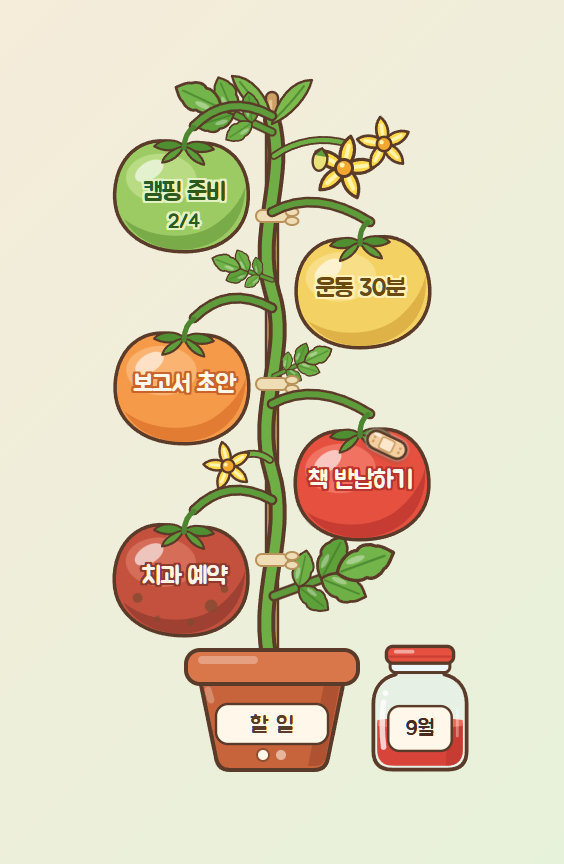
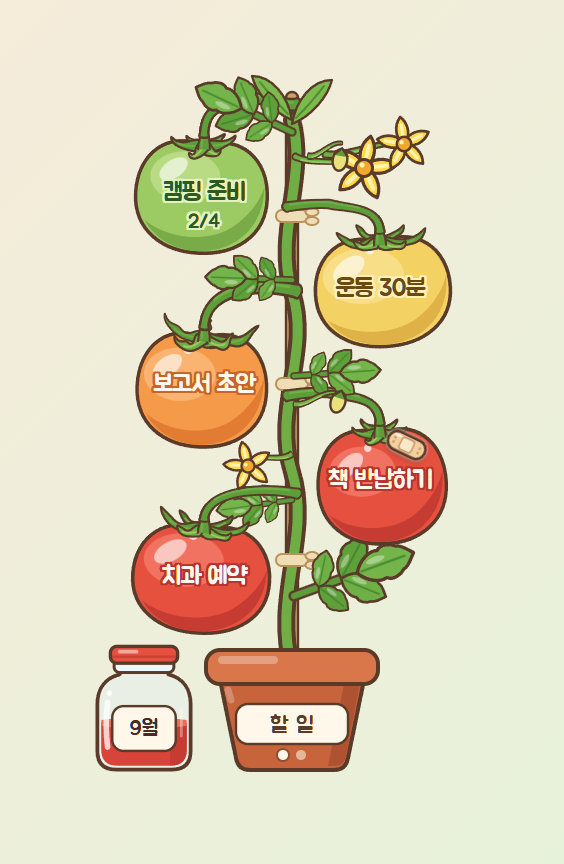
README 새로 쓰기 (0.9.6): 새 사진 7장(화분·물뿌리개·메모지·잼 병 목록·잼 선반·설정·사용법), 물뿌리개·사용법·설정 묶음·잼 병 자리 자동·화분 메뉴·트레이 메뉴·바뀐 점 카드·피드백 제보 설명, 갈색 반점 기본 꺼짐 반영

Changed region(s): [[0.1507, 0.0625, 0.844, 0.9062]]

diff --git a/README.md b/README.md
@@ -2,7 +2,7 @@
 
 **바탕화면에서 토마토를 키우며 쓰는 메모 위젯** (Windows)
 
-작은 화분의 줄기에 물을 주면 꽃이 피고 토마토가 열려요. 토마토 하나가 메모 하나예요.
+작은 화분의 줄기에 물을 주면 꽃이 피고 토마토가 열려요. **토마토 하나가 메모 하나**예요.
 메모는 날이 갈수록 초록에서 빨강으로 익어서, 오래 묵은 일이 한눈에 보여요.
 다 끝낸 메모는 **수확**해서 이달의 **잼 병**에 담고, 잼 병은 1년짜리 **잼 선반**에 차곡차곡 쌓여요.
 
@@ -12,10 +12,18 @@
 
 ## 📸 둘러보기
 
-**토마토를 누르면 토마토 모양 편지지가 펼쳐져요.** 체크리스트, 글자 색, 형광펜으로 꾸밀 수 있어요.
+**줄기에 마우스를 올리면 물뿌리개가 나타나요.** 누르면 물을 주고, 꽃이 피었다가 새 토마토가 열려요.
 
 <p align="center">
-  <img src="images/letter.png" width="720" alt="토마토 모양 편지지: 왼쪽 면에 제목과 날짜, 오른쪽 면에 체크리스트와 서식 있는 본문">
+  <img src="images/can.png" width="520" alt="줄기 위의 물뿌리개와 '눌러서 물 주기 → 새 토마토' 말풍선">
+</p>
+
+**토마토를 누르면 토마토 모양 메모지가 펼쳐져요.** 오른쪽 맨 윗줄이 제목, 그 아래가 본문이에요.
+글자를 드래그하면 꾸미기 도구줄이 떠서 체크리스트·글자 색·형광펜으로 꾸밀 수 있어요.
+왼쪽 면엔 만든 날짜, 익은 정도, 할 일 진행도가 보여요.
+
+<p align="center">
+  <img src="images/letter.png" width="760" alt="토마토 모양 메모지: 왼쪽 면에 만든 날짜·익은 단계·할 일 2/4·달린 화분, 오른쪽 면에 제목과 체크리스트 본문">
 </p>
 
 <table>
@@ -26,6 +34,14 @@
   <tr>
     <td align="center"><b>이번 달 잼 병</b><br>수확한 메모가 모여요. 다시 심을 수도 있어요.</td>
     <td align="center"><b>잼 선반</b><br>1년치 잼 병이 달마다 쌓여요.</td>
+  </tr>
+  <tr>
+    <td align="center" width="50%"><img src="images/settings.png" alt="설정 화면: 보기·토마토·잼 병·위젯 자리·메모 지키기·정보 묶음 카드"></td>
+    <td align="center" width="50%"><img src="images/guide.png" alt="사용법 화면: 한눈에 보기부터 궁금한 점·버그까지 13가지 목차"></td>
+  </tr>
+  <tr>
+    <td align="center"><b>설정</b><br>묶음별 카드로 정리돼 있어요.</td>
+    <td align="center"><b>사용법</b><br>그림과 함께 보는 사용 설명서가 앱 안에 있어요.</td>
   </tr>
 </table>
 
@@ -45,44 +61,52 @@
 > **추가 정보 → 실행**을 누르면 설치돼요.
 
 - 관리자 권한 없이 **내 계정에만** 설치돼요.
-- 처음 켜면 **윈도우를 켤 때 자동 실행**이 켜져 있어요. 트레이 메뉴나 설정에서 끌 수 있어요.
+- 처음 켜면 **윈도우를 켤 때 자동 실행**이 켜져 있어요. **설정 → 위젯 자리**에서 끌 수 있어요.
+- 시작 화면에 고정하려면: 시작 메뉴 → 모든 앱 → **TomatoMemo** 오른쪽 클릭 → **시작 화면에 고정**
 - 필요한 것: Windows 10 / 11 (64비트)
 
 ## 🔄 자동 업데이트
 
 새 버전이 나오면 앱이 알아서 알려 줘요. 켤 때 한 번, 그리고 하루 한 번 확인해요.
 
-- 화분 이름표에 **초록 점**이 생기고, 화분 메뉴 맨 위에 "**⬆ 새 버전으로 업데이트**"가 나타나요.
+- 화분 이름표에 **초록 점**이 생기고, 화분 메뉴 맨 위에 "**새 버전으로 업데이트**"가 나타나요.
 - 누르면 받아서 설치하고 다시 켜져요. **누르기 전에는 아무것도 바뀌지 않아요.**
+- 업데이트하면 **바뀐 점 카드**가 한 번 떠요. 지난 내용은 **설정 → 정보 → 업데이트 내역**에서 볼 수 있어요.
 - 모든 업데이트 파일에는 **디지털 서명**이 붙어 있어요. 앱은 서명이 맞는 파일만 설치해요.
 
 ---
 
 ## 🌱 이렇게 써요
 
+> 더 자세한 설명은 앱 안 **설정 → 사용법**에 그림과 함께 있어요.
+
 | 하고 싶은 것 | 방법 |
 |---|---|
-| 새 메모 (토마토 달기) | **줄기 클릭** 🌿 (위젯을 누른 뒤 `Ctrl+N` 도 돼요) |
-| 메모 쓰기·보기 | 토마토 클릭 → 토마토 모양 **편지지**가 펼쳐져요 |
-| 미리 보기 | 토마토에 마우스를 잠깐 올리기 |
-| 닫기 (자동 저장) | 편지지 바깥 클릭 또는 `Esc` |
-| 다 한 메모 | 편지지 아래 **수확** → 이달의 잼 병으로 🍯 |
-| 이번 달 잼 병 보기 | 화분 옆 **잼 병 클릭** (왼쪽 위 ‹ 를 누르면 1년치 잼 선반) |
-| 메모 찾기 | 잼 선반 맨 위 검색 칸 (줄기·잼 병 모든 메모) |
-| 잼 병 메모를 다시 줄기로 | **다시 심기** → 반창고를 붙이고 돌아와요 🩹 |
-| 화분 여러 개 | 화분을 눌러 **새 화분** · 위젯 위에서 **마우스 휠**로 넘기기 |
-| 위젯 옮기기 | 화분을 누른 채 끌기 (모니터마다 위치를 기억해요) |
-| 크기 바꾸기 | 설정의 크기, 또는 화분 위에서 `Ctrl+휠` |
-| 숨기기 / 끄기 | 작업 표시줄 오른쪽 아래 **토마토 아이콘** (왼쪽 클릭 = 숨기기/보이기, 오른쪽 클릭 = 메뉴) |
+| 새 메모 (토마토 달기) | **줄기 클릭** (물뿌리개로 물 주기). 위젯을 누른 뒤 `Ctrl+N` 도 돼요 |
+| 메모 쓰기·보기 | 토마토 클릭 → 토마토 모양 **메모지** (맨 윗줄 제목, `Enter` 로 본문) |
+| 열지 않고 살짝 보기 | 토마토에 마우스를 잠깐 올리기 (미리보기 이름표) |
+| 닫기 (자동 저장) | X 버튼, `Esc`, 또는 메모지 바깥 클릭 |
+| 다 한 메모 | 메모지의 **수확** → 이달의 잼 병으로 (잠깐 뜨는 **되돌리기**로 취소) |
+| 이번 달 잼 병 보기 | 화분 옆 **잼 병 클릭** (왼쪽 위 **‹ 잼 선반** 을 누르면 1년치 선반) |
+| 메모 찾기 | 잼 선반 맨 위 검색 칸 (줄기·잼 병의 모든 메모) |
+| 잼 병 메모를 다시 줄기로 | **다시 심기** → 반창고를 붙이고 돌아와요 |
+| 화분 메뉴 | **화분 클릭** 또는 위젯 오른쪽 클릭: 새 토마토 · 잼 선반 보기 · 다른 화분으로 · 새 화분 · 이름 바꾸기 · 위치 잠금 · 사용법 · 설정 |
+| 화분 넘기기 | 위젯 위에서 **마우스 휠** |
+| 위젯 옮기기 | 화분을 누른 채 끌기 (모니터마다 자리를 기억해요) |
+| 크기 바꾸기 | **설정 → 보기**, 또는 위젯 위에서 `Ctrl+휠` |
+| 숨기기 / 끄기 | 작업 표시줄 오른쪽 아래 **토마토 아이콘**: 클릭 = 숨기기/보이기, 오른쪽 클릭 = 설정 · 사용법 · 종료 |
 
 ### 🍅 익어 가는 토마토
-메모를 만든 날부터 색이 변해요. 날짜는 설정에서 바꿀 수 있어요.
+메모를 만든 날부터 색이 변해요. 며칠 만에 익을지는 **설정 → 토마토**에서 바꿀 수 있어요.
 
-`초록` → 2일 `노랑` → 5일 `주황` → 8일 `빨강` → 14일 `갈색 반점`
+`초록` → 2일 `노랑` → 5일 `주황` → 8일 `빨강`
 
-### ✍ 편지지 서식
-글자를 선택하면 위에 서식 도구줄이 떠요. **굵게**, *기울임*, 밑줄, 취소선, 글자 색, 형광펜, 글머리 기호, ☑ 체크리스트를 쓸 수 있어요.
-체크리스트를 쓰면 토마토에 `2/5` 처럼 진행도가 보이고, 다 채우면 반짝여요 ✨
+- 원하면 아주 오래된 토마토에 **갈색 반점**이 생기게 할 수도 있어요 (설정, 처음엔 꺼져 있어요).
+- 토마토마다 꼭지·열매자루 모양이 조금씩 달라요. 토마토가 많이 달리면 잎도 무성해져요.
+
+### ✍ 메모지 꾸미기
+본문 글자를 드래그하면 도구줄이 떠요. **굵게** · *기울임* · 밑줄 · 취소선 · 형광펜 · 글자 색 · 글머리 기호 · ☑ 체크리스트 · 서식 지우기.
+체크리스트를 쓰면 토마토에 `2/5` 처럼 진행도가 보이고, 다 채우면 반짝여요.
 
 | 단축키 | |
 |---|---|
@@ -90,10 +114,15 @@
 | `Ctrl+Shift+S` | 취소선 |
 | `Ctrl+Shift+H` | 형광펜 |
 | `Ctrl+Shift+8` / `Ctrl+Shift+9` | 글머리 기호 / 체크리스트 |
+| `Ctrl+Z` / `Ctrl+Y` | 되돌리기 / 다시 하기 |
+
+### 🍯 잼 병 자리
+잼 병은 처음엔 **자동**이에요. 위젯을 화면 오른쪽에 두면 화분 왼쪽에, 왼쪽에 두면 오른쪽에 놓여요 (화면 안쪽).
+**설정 → 잼 병**에서 왼쪽·오른쪽으로 고정할 수도 있어요.
 
 ### 🗑 실수로 지웠다면
 - 버린 직후엔 안내 문구의 **되돌리기**를 누르면 돼요.
-- 며칠 지났어도 **설정 → 지운 메모 찾기**에서 최근 14일 백업을 뒤져 **되살리기**할 수 있어요.
+- 며칠 지났어도 **설정 → 메모 지키기 → 지운 메모 찾기**에서 최근 14일 백업을 뒤져 **되살리기**할 수 있어요. 되살리기 전에 내용도 볼 수 있어요.
 
 ---
 
@@ -105,10 +134,17 @@
 - 쓸 때마다 자동 저장하고, **하루 한 번 백업**을 14일치 남겨요.
 - 다른 컴퓨터로 옮기거나 따로 보관하고 싶으면 이 폴더를 통째로 복사하면 돼요.
 
+## 💌 피드백·버그 제보
+
+앱 안 **설정 → 정보 → 피드백·버그 제보**에서 만든 사람에게 바로 보낼 수 있어요.
+
+- 보내지는 것: 적은 글, 종류(버그·제안·기타), 적었다면 연락처, 앱 버전·윈도우 버전
+- **메모 내용은 보내지 않아요.**
+
 ## 🍃 가볍게
 
 가만히 있을 때는 CPU를 거의 쓰지 않도록 만들었어요. 움직임은 누를 때만 잠깐 나타나요.
-설정에서 애니메이션을 끌 수도 있어요.
+설정에서 움직임(애니메이션)을 끌 수도 있어요.
 
 ---
 
